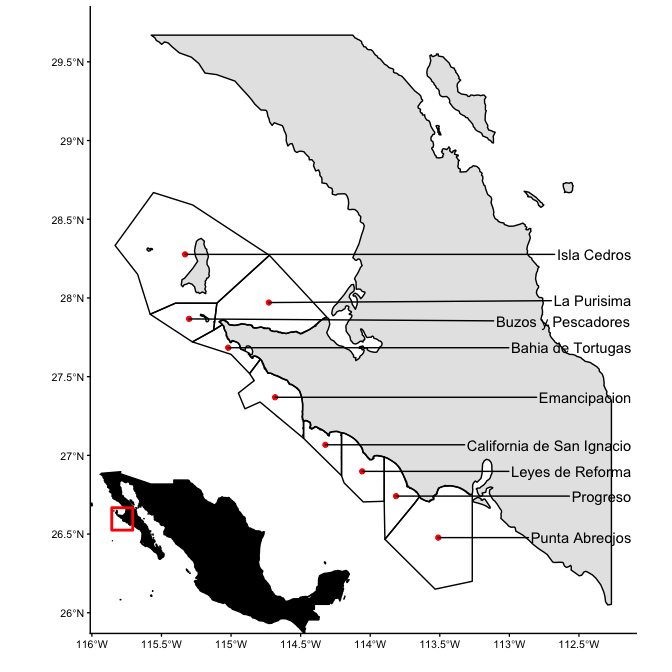
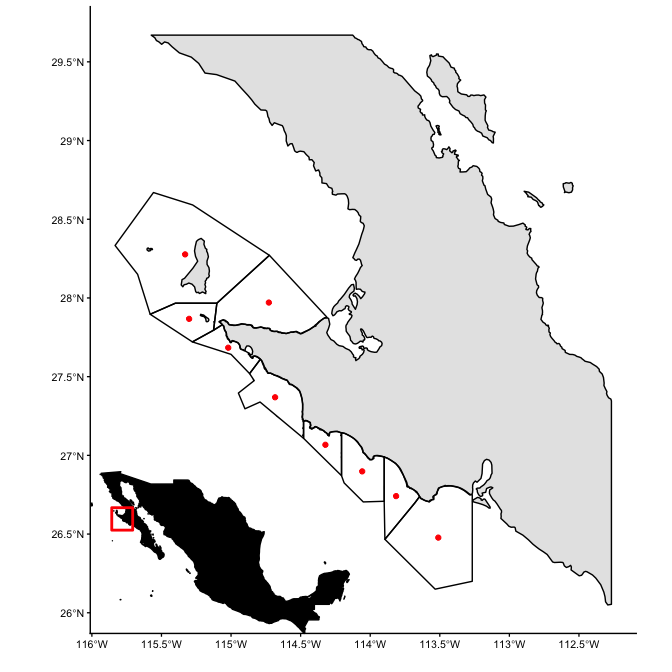
Updating code and results

diff --git a/scripts/2_distances.md b/scripts/2_distances.md
@@ -15,6 +15,7 @@ the pairwise distances between all TURFs.
 ``` r
 suppressPackageStartupMessages({
   library(here)
+  library(startR)
   library(sf)
   library(SpatialPosition)
   library(tidyverse)
@@ -47,24 +48,26 @@ This will produce a 9 X 9 matrix, with a diagonal with value so 0.
 rownames(turfs) <- turfs$Coop
 
 # Calculate distance matrix (results are in meters)
-matrix <- CreateDistMatrix(knownpts = turfs, unknownpts = turfs)
+matrix <- round(
+  CreateDistMatrix(knownpts = turfs, unknownpts = turfs) / 1e3, # Divide by a thousand to convert to km
+  2)                                                            # Keep only two decimals
 ```
 
 ``` r
 knitr::kable(matrix)
 ```
 
-|                           | Bahia de Tortugas | Buzos y Pescadores | California de San Ignacio | Emancipacion | La Purisima | Leyes de Reforma |  Progreso | Punta Abreojos | Isla Cedros |
-| ------------------------- | ----------------: | -----------------: | ------------------------: | -----------: | ----------: | ---------------: | --------: | -------------: | ----------: |
-| Bahia de Tortugas         |              0.00 |           34366.63 |                  97157.96 |     48201.30 |    42888.52 |        129074.32 | 158701.67 |      200703.34 |    72445.78 |
-| Buzos y Pescadores        |          34366.63 |               0.00 |                 131265.32 |     82266.22 |    57564.31 |        163299.56 | 192979.38 |      234954.69 |    45483.91 |
-| California de San Ignacio |          97157.96 |          131265.32 |                      0.00 |     49001.18 |   107889.43 |         32242.81 |  62048.39 |      103822.62 |   166909.08 |
-| Emancipacion              |          48201.30 |           82266.22 |                  49001.18 |         0.00 |    66842.22 |         81068.72 | 110806.41 |      152729.93 |   119071.65 |
-| La Purisima               |          42888.52 |           57564.31 |                 107889.43 |     66842.22 |        0.00 |        136113.19 | 163552.45 |      204773.08 |    68144.50 |
-| Leyes de Reforma          |         129074.32 |          163299.56 |                  32242.81 |     81068.72 |   136113.19 |             0.00 |  29805.61 |       71661.65 |   197790.81 |
-| Progreso                  |         158701.67 |          192979.38 |                  62048.39 |    110806.41 |   163552.45 |         29805.61 |      0.00 |       42034.51 |   226689.58 |
-| Punta Abreojos            |         200703.34 |          234954.69 |                 103822.62 |    152729.93 |   204773.08 |         71661.65 |  42034.51 |           0.00 |   268588.15 |
-| Isla Cedros               |          72445.78 |           45483.91 |                 166909.08 |    119071.65 |    68144.50 |        197790.81 | 226689.58 |      268588.15 |        0.00 |
+|                           | Bahia de Tortugas | Buzos y Pescadores | California de San Ignacio | Emancipacion | La Purisima | Leyes de Reforma | Progreso | Punta Abreojos | Isla Cedros |
+| ------------------------- | ----------------: | -----------------: | ------------------------: | -----------: | ----------: | ---------------: | -------: | -------------: | ----------: |
+| Bahia de Tortugas         |              0.00 |              34.37 |                     97.16 |        48.20 |       42.89 |           129.07 |   158.70 |         200.70 |       72.45 |
+| Buzos y Pescadores        |             34.37 |               0.00 |                    131.27 |        82.27 |       57.56 |           163.30 |   192.98 |         234.95 |       45.48 |
+| California de San Ignacio |             97.16 |             131.27 |                      0.00 |        49.00 |      107.89 |            32.24 |    62.05 |         103.82 |      166.91 |
+| Emancipacion              |             48.20 |              82.27 |                     49.00 |         0.00 |       66.84 |            81.07 |   110.81 |         152.73 |      119.07 |
+| La Purisima               |             42.89 |              57.56 |                    107.89 |        66.84 |        0.00 |           136.11 |   163.55 |         204.77 |       68.14 |
+| Leyes de Reforma          |            129.07 |             163.30 |                     32.24 |        81.07 |      136.11 |             0.00 |    29.81 |          71.66 |      197.79 |
+| Progreso                  |            158.70 |             192.98 |                     62.05 |       110.81 |      163.55 |            29.81 |     0.00 |          42.03 |      226.69 |
+| Punta Abreojos            |            200.70 |             234.95 |                    103.82 |       152.73 |      204.77 |            71.66 |    42.03 |           0.00 |      268.59 |
+| Isla Cedros               |             72.45 |              45.48 |                    166.91 |       119.07 |       68.14 |           197.79 |   226.69 |         268.59 |        0.00 |
 
 Now, lets convert the matrix into a table just in case this is useful.
 
@@ -76,22 +79,28 @@ distance_as_table <- matrix %>%
   mutate(value = value)
 ```
 
-Now let’s visualize and export this
-matrix.
+Now let’s visualize and export this matrix.
 
 ``` r
-ggplot(data = distance_as_table, aes(x = from, y = to, fill = value / 1e3)) +
-  geom_tile() +
+heatmap <- ggplot(data = distance_as_table,
+       mapping = aes(x = from, y = to, fill = value)) +
+  geom_tile(color = "black", size = 0.5) +
   coord_equal() +
+  ggtheme_plot() +
   theme(axis.text.x = element_text(angle = 90, hjust = 1)) +
-  guides(fill = guide_colorbar(ticks.colour = "black", frame.colour = "black")) + 
+  guides(fill = guide_colorbar(ticks.colour = "black",
+                               frame.colour = "black")) + 
   labs(x = "", y = "") +
-  scale_fill_viridis_c(name = "Distance (km)")
+  scale_fill_viridis_c(name = "Distance (km)") +
+  scale_x_discrete(expand = c(0, 0)) +
+  scale_y_discrete(expand = c(0, 0))
+
+heatmap
 ```
 
 ![](2_distances_files/figure-gfm/unnamed-chunk-7-1.png)<!-- -->
 
-We can now export both, the matrix and table.
+We can now export both, the matrix and table, as well as the figure.
 
 ``` r
 write.csv(x = matrix,
@@ -100,4 +109,9 @@ write.csv(x = matrix,
 write.csv(x = distance_as_table,
           file = here::here("results", "distance_table.csv"),
           row.names = F)
+
+lazy_ggsave(plot = heatmap,
+            filename = "distance_heatmap",
+            width = 17,
+            height = 17)
 ```

diff --git a/scripts/1_map.md b/scripts/1_map.md
@@ -125,7 +125,6 @@ turf_map <- ggplot() +
   geom_sf(data = baja, color = "black") +
   geom_sf(data = turfs, fill = "transparent", color = "black") +
   geom_sf(data = turf_centroids, color = "red") +
-  geom_sf_text_repel(data = turf_centroids, aes(label = Coop), nudge_x = 4, nudge_y = 0, min.segment.length = 0, seed = 2) +
   ggtheme_plot() +
   theme(legend.position = "top") +
   labs(x = "", y = "")
@@ -134,6 +133,15 @@ turf_map
 ```
 
 ![](1_map_files/figure-gfm/unnamed-chunk-9-1.png)<!-- -->
+
+``` r
+turf_map_with_text <- turf_map + 
+    geom_sf_text_repel(data = turf_centroids, aes(label = Coop), nudge_x = 4, nudge_y = 0, min.segment.length = 0, seed = 2)
+
+turf_map_with_text
+```
+
+![](1_map_files/figure-gfm/unnamed-chunk-9-2.png)<!-- -->
 
 Now, lets combine them into a finalized plot that we can export.
 
@@ -150,8 +158,19 @@ cooepratives (FEDECOOP) in Baja California and Baja California Sur,
 Mexico. Each red dot indicates the centroid of each TURF used to
 calculate pairwise distances between TURFs. The lower left corner shows
 an insert of Mexico, with a red box showing the general location of
-these TURFs.](1_map_files/figure-gfm/unnamed-chunk-10-1.png) Export the
-figure
+these TURFs.](1_map_files/figure-gfm/unnamed-chunk-10-1.png)
+
+``` r
+map_final <- ggdraw() +
+  draw_plot(turf_map_with_text) +
+  draw_plot(mex_map, x = 0.1, y = -0.05, width = 0.45, height = 0.45)
+
+map_final
+```
+
+![](1_map_files/figure-gfm/unnamed-chunk-11-1.png)<!-- -->
+
+Export the figure
 
 ``` r
 lazy_ggsave(plot = map_final,
